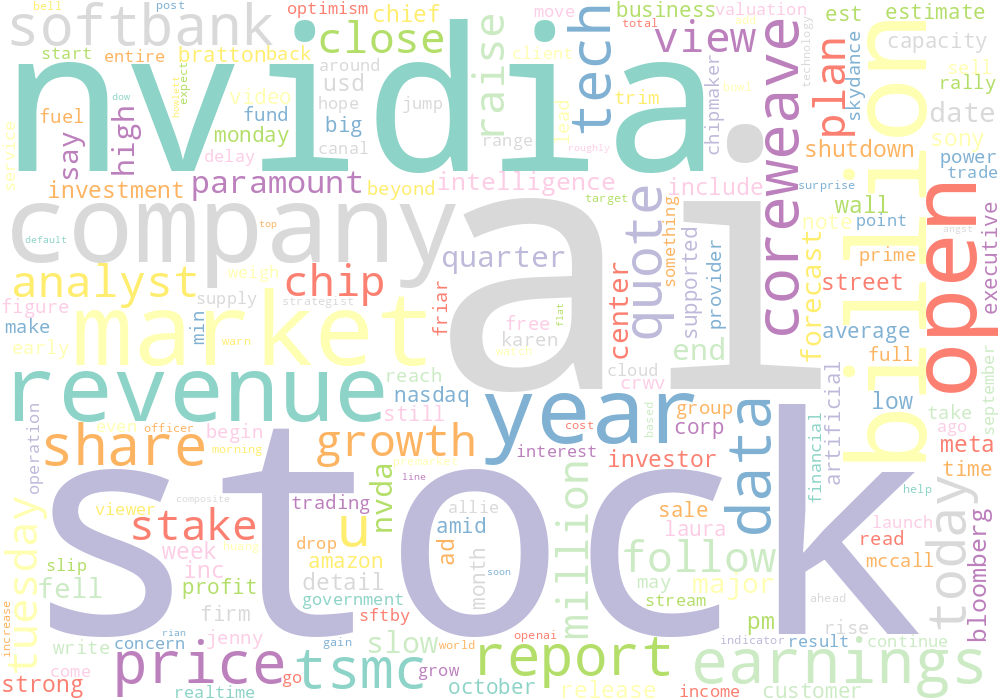
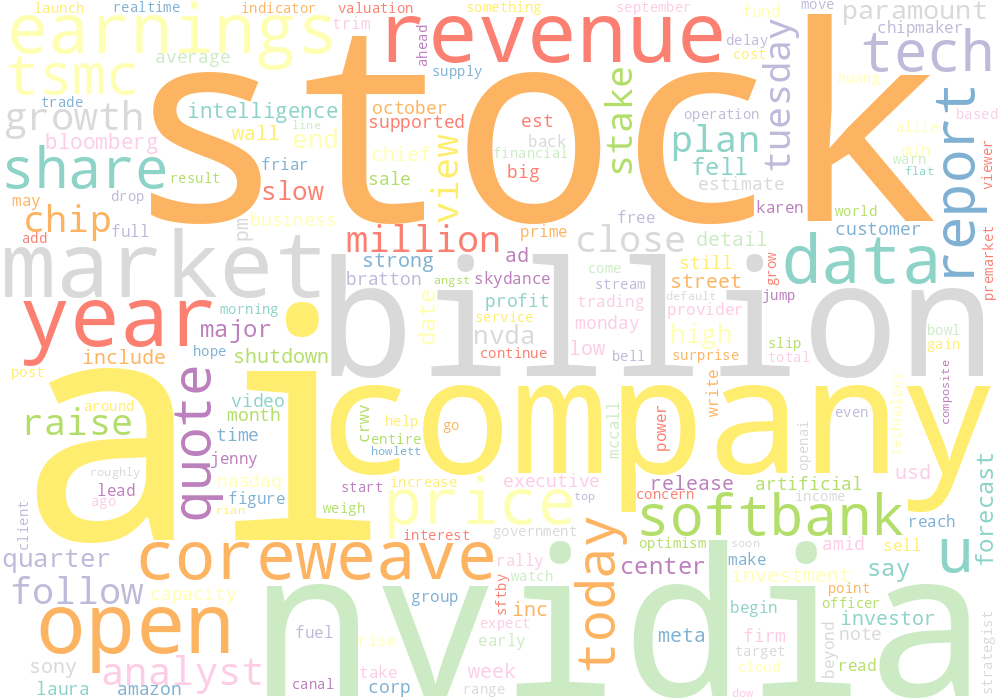
created a method for Generating the Report

diff --git a/analyze.py b/analyze.py
@@ -1,132 +1,158 @@
-import os
-import re
 from random_username.generate import generate_username
-import nltk
+import re, nltk, json
 from nltk.tokenize import word_tokenize, sent_tokenize
 from nltk.stem import WordNetLemmatizer
 from nltk.corpus import wordnet, stopwords
+from nltk.sentiment.vader import SentimentIntensityAnalyzer
 from wordcloud import WordCloud
-
-# Download necessary NLTK data
 nltk.download('stopwords')
 nltk.download('wordnet')
 nltk.download('averaged_perceptron_tagger')
-
-# Initialize tools
+nltk.download('vader_lexicon')
 wordLemmatizer = WordNetLemmatizer()
 stopWords = set(stopwords.words('english'))
+sentimentAnalyzer = SentimentIntensityAnalyzer()
 
 # Welcome User
 def welcomeUser():
-    print("\nWelcome to the text analysis tool! I will mine and analyze a body of text from a file you give me.")
+	print("\nWelcome to the text analysis tool, I will mine and analyze a body of text from a file you give me!")
 
 # Get Username
 def getUsername():
-    maxAttempts = 3
-    attempts = 0
-    while attempts < maxAttempts:
-        inputPrompt = "\nTo begin, please enter your username:\n" if attempts == 0 else "\nPlease try again:\n"
-        usernameFromInput = input(inputPrompt)
-        if len(usernameFromInput) < 5 or not usernameFromInput.isidentifier():
-            print("Your username must be at least 5 characters long, alphanumeric only (a-z/A-Z/0-9), have no spaces, and cannot start with a number!")
-        else:
-            return usernameFromInput
-        attempts += 1
-    print(f"\nExhausted all {maxAttempts} attempts, assigning username instead...")
-    return generate_username()[0]
+
+	maxAttempts = 3
+	attempts = 0
+
+	while attempts < maxAttempts:
+
+		# Print message prompting user to input their name
+		inputPrompt = ""
+		if attempts == 0:
+			inputPrompt = "\nTo begin, please enter your username:\n"
+		else:
+			inputPrompt = "\nPlease try again:\n"
+		usernameFromInput = input(inputPrompt)
+
+		# Validate username
+		if len(usernameFromInput) < 5 or not usernameFromInput.isidentifier():
+			print("Your username must be at least 5 characters long, alphanumeric only (a-z/A-Z/0-9), have no spaces, and cannot start with a number!")
+		else:
+			return usernameFromInput
+
+		attempts += 1
+
+	print("\nExhausted all " + str(maxAttempts) + " attempts, assigning username instead...")
+	return generate_username()[0]
 
 # Greet the user
 def greetUser(name):
-    print(f"Hello, {name}")
+	print("Hello, " + name)
 
 # Get text from file
 def getArticleText():
-    try:
-        with open("files/article.txt", "r") as f:
-            rawText = f.read()
-        return rawText.replace("\n", " ").replace("\r", "")
-    except FileNotFoundError:
-        print("Error: 'files/article.txt' not found.")
-        return ""
+	f = open("files/article.txt", "r")
+	rawText = f.read()
+	f.close()
+	return rawText.replace("\n", " ").replace("\r", "")
 
-# Tokenize sentences
+# Extract Sentences from raw Text Body
 def tokenizeSentences(rawText):
-    return sent_tokenize(rawText)
+	return sent_tokenize(rawText)
 
-# Tokenize words
+# Extract Words from list of Sentences
 def tokenizeWords(sentences):
-    words = []
-    for sentence in sentences:
-        words.extend(word_tokenize(sentence))
-    return words
+	words = []
+	for sentence in sentences:
+		words.extend(word_tokenize(sentence))
+	return words
 
-# Extract key sentences
+# Get the key sentences based on search pattern of key words
 def extractKeySentences(sentences, searchPattern):
-    return [s for s in sentences if re.search(searchPattern, s.lower())]
+	matchedSentences = []
+	for sentence in sentences:
+		# If sentence matches desired pattern, add to matchedSentences
+		if re.search(searchPattern, sentence.lower()):
+			matchedSentences.append(sentence)
+	return matchedSentences
 
-# Average words per sentence
+# Get the average words per sentence, excluding punctuation
 def getWordsPerSentence(sentences):
-    totalWords = sum(len(s.split()) for s in sentences)
-    return totalWords / len(sentences) if sentences else 0
+	totalWords = 0
+	for sentence in sentences:
+		totalWords += len(sentence.split(" "))
+	return totalWords / len(sentences)
 
-# POS tag conversion
+# Convert part of speech from pos_tag() function
+# into wordnet compatible pos tag
 posToWordnetTag = {
-    "J": wordnet.ADJ,
-    "V": wordnet.VERB,
-    "N": wordnet.NOUN,
-    "R": wordnet.ADV
+	"J": wordnet.ADJ,
+	"V": wordnet.VERB,
+	"N": wordnet.NOUN,
+	"R": wordnet.ADV
 }
-def treebankPosToWordnetPos(pos):
-    return posToWordnetTag.get(pos[0], wordnet.NOUN)
+def treebankPosToWordnetPos(partOfSpeech):
+	posFirstChar = partOfSpeech[0]
+	if posFirstChar in posToWordnetTag:
+		return posToWordnetTag[posFirstChar]
+	return wordnet.NOUN
 
-# Cleanse word list
+# Convert raw list of (word, POS) tuple to a list of strings
+# that only include valid english words
 def cleanseWordList(posTaggedWordTuples):
-    cleansedWords = []
-    invalidWordPattern = "[^a-zA-Z-+]"
-    for word, pos in posTaggedWordTuples:
-        cleaned = word.replace(".", "").lower()
-        if not re.search(invalidWordPattern, cleaned) and len(cleaned) > 1 and cleaned not in stopWords:
-            cleansedWords.append(wordLemmatizer.lemmatize(cleaned, treebankPosToWordnetPos(pos)))
-    return cleansedWords
+	cleansedWords = []
+	invalidWordPattern = "[^a-zA-Z-+]"
+	for posTaggedWordTuple in posTaggedWordTuples:
+		word = posTaggedWordTuple[0]
+		pos = posTaggedWordTuple[1]
+		cleansedWord = word.replace(".", "").lower()
+		if (not re.search(invalidWordPattern, cleansedWord)) and len(cleansedWord) > 1 and cleansedWord not in stopWords:
+			cleansedWords.append(wordLemmatizer.lemmatize(cleansedWord, treebankPosToWordnetPos(pos)))
+	return cleansedWords
 
-# Main execution
-def main():
-    welcomeUser()
-    username = getUsername()
-    greetUser(username)
+# Get User Details
+welcomeUser()
+username = getUsername()
+greetUser(username)
 
-    articleTextRaw = getArticleText()
-    if not articleTextRaw:
-        print("No text to analyze. Exiting.")
-        return
+# Extract and Tokenize Text
+articleTextRaw = getArticleText()
+articleSentences = tokenizeSentences(articleTextRaw)
+articleWords = tokenizeWords(articleSentences)
 
-    articleSentences = tokenizeSentences(articleTextRaw)
-    articleWords = tokenizeWords(articleSentences)
+# Get Sentence Analytics
+stockSearchPattern = "[0-9]|[%$€£]|thousand|million|billion|trillion|profit|loss"
+keySentences = extractKeySentences(articleSentences, stockSearchPattern)
+wordsPerSentence = getWordsPerSentence(articleSentences)
 
-    stockSearchPattern = r"[0-9]|[%$€£]|thousand|million|billion|trillion|profit|loss"
-    keySentences = extractKeySentences(articleSentences, stockSearchPattern)
-    wordsPerSentence = getWordsPerSentence(articleSentences)
+# Get Word Analytics
+wordsPosTagged = nltk.pos_tag(articleWords)
+articleWordsCleansed = cleanseWordList(wordsPosTagged)
 
-    wordsPosTagged = nltk.pos_tag(articleWords)
-    articleWordsCleansed = cleanseWordList(wordsPosTagged)
+# Generate word cloud
+separator = " "
+wordCloudFilePath = "results/wordcloud.png"
+wordcloud = WordCloud(width = 1000, height = 700, \
+	background_color="white", colormap="Set3", collocations=False).generate(separator.join(articleWordsCleansed))
+wordcloud.to_file(wordCloudFilePath)
 
-    print(f"Total sentences: {len(articleSentences)}")
-    print(f"Average words per sentence: {wordsPerSentence:.2f}")
-    print(f"Key sentences found: {len(keySentences)}")
-    print(f"Cleaned word count: {len(articleWordsCleansed)}")
+# Run Sentiment Analysis
+sentimentResult = sentimentAnalyzer.polarity_scores(articleTextRaw)
 
-    if not articleWordsCleansed:
-        print("No valid words found for word cloud. Exiting.")
-        return
+# Collate analyses into one dictionary
+finalResult = {
+	"username": username,
+	"data": {
+		"keySentences": keySentences,
+		"wordsPerSentence": round(wordsPerSentence, 1),
+		"sentiment": sentimentResult,
+		"wordCloudFilePath": wordCloudFilePath
+	},
+	"metadata": {
+		"sentencesAnalyzed": len(articleSentences),
+		"wordsAnalyzed": len(articleWordsCleansed)
+	}
+}
+finalResultJson = json.dumps(finalResult, indent=4)
 
-    try:
-        os.makedirs("results", exist_ok=True)
-        wordcloud = WordCloud(width=1000, height=700, background_color="white", colormap="Set3", collocations=False)
-        wordcloud.generate(" ".join(articleWordsCleansed))
-        wordcloud.to_file("results/wordcloud.png")
-        print("Word cloud saved to 'results/wordcloud.png'")
-    except Exception as e:
-        print(f"Error generating word cloud: {e}")
-
-if __name__ == "__main__":
-    main()
+# Print for testing
+print(finalResultJson)
